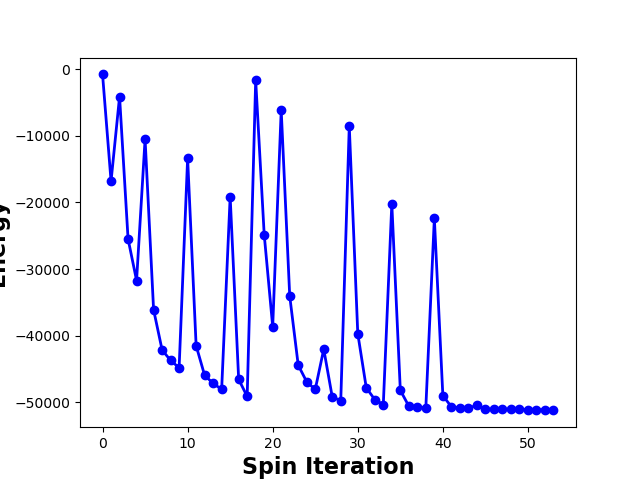
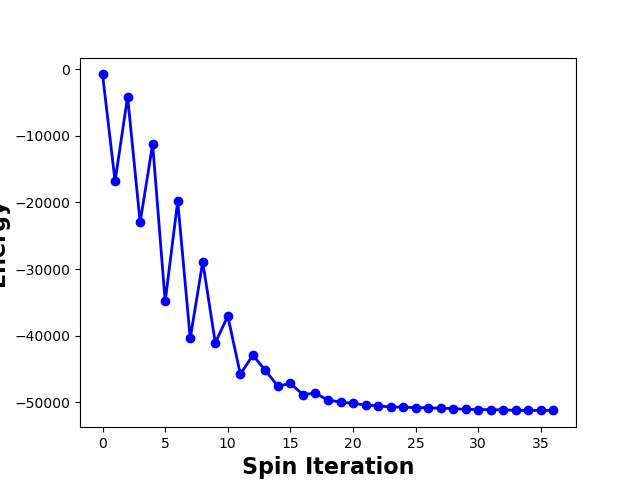
working with waveform

diff --git a/Ising_computataion_w_TestData.py b/Ising_computataion_w_TestData.py
@@ -291,7 +291,7 @@ next_spin = annealing_ver2(30,2000,this_spin,image_size, cols)
 # plt.imshow(next_spin, cmap='Greys_r')
 # plt.show()
 # start Ising
-this_spin,KPI,H_sigma_array = Ising_start(next_spin,J,rows,cols,2,Ising_KPI)
+this_spin,KPI,H_sigma_array = Ising_start(next_spin,J,rows,cols,1,Ising_KPI)
 # print(this_spin)
 # plt.axis('off')
 # plt.imshow(this_spin, cmap='Greys_r')
@@ -309,103 +309,148 @@ this_spin,KPI,H_sigma_array = Ising_start(next_spin,J,rows,cols,1,Ising_KPI)
 # plt.show()
 
 # annealing
-next_spin = annealing_ver2(30,1600,this_spin,image_size, cols)
-# plt.imshow(next_spin, cmap='Greys_r')
-# plt.show()
-# start Ising
-this_spin,KPI,H_sigma_array = Ising_start(next_spin,J,rows,cols,5,Ising_KPI)
-# print(this_spin)
-# plt.axis('off')
-# plt.imshow(this_spin, cmap='Greys_r')
-# plt.show()
-
-# annealing
 next_spin = annealing_ver2(30,1500,this_spin,image_size, cols)
 # plt.imshow(next_spin, cmap='Greys_r')
 # plt.show()
 # start Ising
-this_spin,KPI,H_sigma_array = Ising_start(next_spin,J,rows,cols,5,Ising_KPI)
+this_spin,KPI,H_sigma_array = Ising_start(next_spin,J,rows,cols,2,Ising_KPI)
 # print(this_spin)
 # plt.axis('off')
 # plt.imshow(this_spin, cmap='Greys_r')
 # plt.show()
 
 # annealing
-next_spin = annealing_ver2(20,1200,this_spin,image_size,cols)
+next_spin = annealing_ver2(30,1000,this_spin,image_size, cols)
 # plt.imshow(next_spin, cmap='Greys_r')
 # plt.show()
 # start Ising
-this_spin,KPI,H_sigma_array = Ising_start(next_spin,J,rows,cols,3,Ising_KPI)
+this_spin,KPI,H_sigma_array = Ising_start(next_spin,J,rows,cols,2,Ising_KPI)
+# print(this_spin)
+# plt.axis('off')
+# plt.imshow(this_spin, cmap='Greys_r')
+# plt.show()
+
+# # annealing
+# next_spin = annealing_ver2(20,800,this_spin,image_size,cols)
+# # plt.imshow(next_spin, cmap='Greys_r')
+# # plt.show()
+# # start Ising
+# this_spin,KPI,H_sigma_array = Ising_start(next_spin,J,rows,cols,3,Ising_KPI)
+# # print(this_spin)
+# # plt.axis('off')
+# # plt.imshow(this_spin, cmap='Greys_r')
+# # plt.show()
+
+# annealing
+next_spin = annealing_ver2(3,600,this_spin,image_size,cols)
+# plt.imshow(next_spin, cmap='Greys_r')
+# plt.show()
+# start Ising
+this_spin,KPI,H_sigma_array = Ising_start(next_spin,J,rows,cols,1,Ising_KPI)
 # print(this_spin)
 # plt.axis('off')
 # plt.imshow(this_spin, cmap='Greys_r')
 # plt.show()
 
 # annealing
-next_spin = annealing_ver2(3,2600,this_spin,image_size,cols)
+next_spin = annealing_ver2(3,100,this_spin,image_size,cols)
 # plt.imshow(next_spin, cmap='Greys_r')
 # plt.show()
 # start Ising
-this_spin,KPI,H_sigma_array = Ising_start(next_spin,J,rows,cols,3,Ising_KPI)
+this_spin,KPI,H_sigma_array = Ising_start(next_spin,J,rows,cols,1,Ising_KPI)
+# print(this_spin)
+# plt.axis('off')
+# plt.imshow(this_spin, cmap='Greys_r')
+# plt.show()
+
+
+# annealing
+next_spin = annealing_ver2(4,300,this_spin,image_size,cols)
+# plt.imshow(next_spin, cmap='Greys_r')
+# plt.show()
+# start Ising
+this_spin,KPI,H_sigma_array = Ising_start(next_spin,J,rows,cols,2,Ising_KPI)
 # print(this_spin)
 # plt.axis('off')
 # plt.imshow(this_spin, cmap='Greys_r')
 # plt.show()
 
 # annealing
-next_spin = annealing_ver2(4,2000,this_spin,image_size,cols)
+next_spin = annealing_ver2(42,130,this_spin,image_size,cols)
 # plt.imshow(next_spin, cmap='Greys_r')
 # plt.show()
 # start Ising
-this_spin,KPI,H_sigma_array = Ising_start(next_spin,J,rows,cols,5,Ising_KPI)
+this_spin,KPI,H_sigma_array = Ising_start(next_spin,J,rows,cols,1,Ising_KPI)
 # print(this_spin)
 # plt.axis('off')
 # plt.imshow(this_spin, cmap='Greys_r')
 # plt.show()
 
 # annealing
-next_spin = annealing_ver2(42,230,this_spin,image_size,cols)
+next_spin = annealing_ver2(42,80,this_spin,image_size,cols)
 # plt.imshow(next_spin, cmap='Greys_r')
 # plt.show()
 # start Ising
-this_spin,KPI,H_sigma_array = Ising_start(next_spin,J,rows,cols,3,Ising_KPI)
+this_spin,KPI,H_sigma_array = Ising_start(next_spin,J,rows,cols,1,Ising_KPI)
 # print(this_spin)
 # plt.axis('off')
 # plt.imshow(this_spin, cmap='Greys_r')
 # plt.show()
 
 # annealing
-next_spin = annealing_ver2(6,1900,this_spin,image_size,cols)
+next_spin = annealing_ver2(6,20,this_spin,image_size,cols)
 # plt.imshow(next_spin, cmap='Greys_r')
 # plt.show()
 # start Ising
-this_spin,KPI,H_sigma_array = Ising_start(next_spin,J,rows,cols,5,Ising_KPI)
+this_spin,KPI,H_sigma_array = Ising_start(next_spin,J,rows,cols,1,Ising_KPI)
 # print(this_spin)
 # plt.axis('off')
 plt.imshow(this_spin, cmap='Greys_r')
 plt.show()
 
 # annealing
-next_spin = annealing_ver2(63,1200,this_spin,image_size,cols)
+next_spin = annealing_ver2(63,50,this_spin,image_size,cols)
 # plt.imshow(next_spin, cmap='Greys_r')
 # plt.show()
 # start Ising
-this_spin,KPI,H_sigma_array = Ising_start(next_spin,J,rows,cols,5,Ising_KPI)
+this_spin,KPI,H_sigma_array = Ising_start(next_spin,J,rows,cols,1,Ising_KPI)
 # print(this_spin)
 # plt.axis('off')
 # plt.imshow(this_spin, cmap='Greys_r')
 # plt.show()
 
 # annealing
-next_spin = annealing_ver2(35,1100,this_spin,image_size,cols)
+next_spin = annealing_ver2(63,10,this_spin,image_size,cols)
 # plt.imshow(next_spin, cmap='Greys_r')
 # plt.show()
 # start Ising
-this_spin,KPI,H_sigma_array = Ising_start(next_spin,J,rows,cols,5,Ising_KPI)
+this_spin,KPI,H_sigma_array = Ising_start(next_spin,J,rows,cols,1,Ising_KPI)
 # print(this_spin)
 # plt.axis('off')
 # plt.imshow(this_spin, cmap='Greys_r')
 # plt.show()
+
+# annealing
+next_spin = annealing_ver2(35,30,this_spin,image_size,cols)
+# plt.imshow(next_spin, cmap='Greys_r')
+# plt.show()
+# start Ising
+this_spin,KPI,H_sigma_array = Ising_start(next_spin,J,rows,cols,20,Ising_KPI)
+# print(this_spin)
+# plt.axis('off')
+plt.imshow(this_spin, cmap='Greys_r')
+plt.show()
+
+# # annealing
+# next_spin = annealing_ver2(35,20,this_spin,image_size,cols)
+# # plt.imshow(next_spin, cmap='Greys_r')
+# # plt.show()
+# # start Ising
+# this_spin,KPI,H_sigma_array = Ising_start(next_spin,J,rows,cols,5,Ising_KPI)
+# # print(this_spin)
+# # plt.axis('off')
+# # plt.imshow(this_spin, cmap='Greys_r')
+# # plt.show()
 
 # # annealing
 # next_spin = annealing_ver2(95,50,this_spin,image_size,cols)
@@ -429,16 +474,16 @@ this_spin,KPI,H_sigma_array = Ising_start(next_spin,J,rows,cols,5,Ising_KPI)
 # # plt.imshow(this_spin, cmap='Greys_r')
 # # plt.show()
 
-# annealing
-next_spin = annealing_ver2(21,20,this_spin,image_size,cols)
-# plt.imshow(next_spin, cmap='Greys_r')
+# # annealing
+# next_spin = annealing_ver2(21,20,this_spin,image_size,cols)
+# # plt.imshow(next_spin, cmap='Greys_r')
+# # plt.show()
+# # start Ising
+# this_spin,KPI,H_sigma_array = Ising_start(next_spin,J,rows,cols,10,Ising_KPI)
+# # print(this_spin)
+# # plt.axis('off')
+# plt.imshow(this_spin, cmap='Greys_r')
 # plt.show()
-# start Ising
-this_spin,KPI,H_sigma_array = Ising_start(next_spin,J,rows,cols,10,Ising_KPI)
-# print(this_spin)
-# plt.axis('off')
-plt.imshow(this_spin, cmap='Greys_r')
-plt.show()
 
 # # annealing
 # next_spin = annealing_ver2(22,40,this_spin,image_size,cols)
